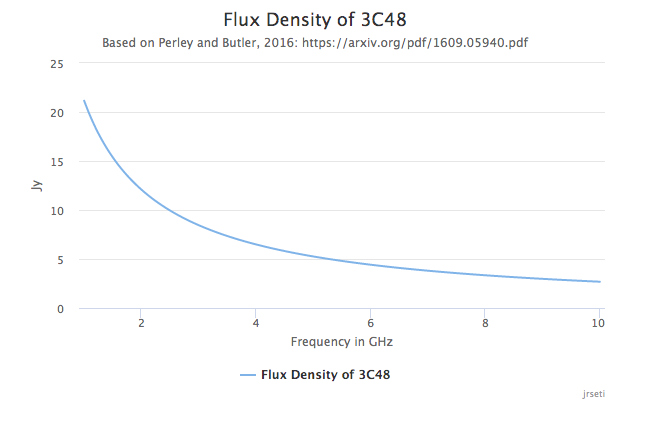
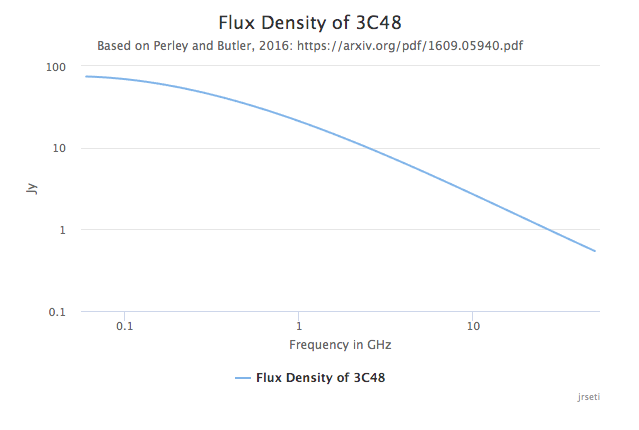
Added -flux option, and changed to log scale

diff --git a/template.html b/template.html
@@ -26,11 +26,13 @@ $(function () {
             text: 'Based on Perley and Butler, 2016: https://arxiv.org/pdf/1609.05940.pdf'
         },
         xAxis: {
+            type:'logarithmic',
             title: {
                 text: 'Frequency in GHz'
             }
         },
         yAxis: {
+            type:'logarithmic',
             title: {
                 text: 'Jy'
             },
@@ -43,7 +45,7 @@ $(function () {
         tooltip: {
             crosshairs: true,
             shared: true,
-            headerFormat: '{point.x:.1f} GHz<br>',
+            headerFormat: '{point.x:.3f} GHz<br>',
             pointFormat: '{point.y} Jy',
         },
         plotOptions: {

diff --git a/flux_densities.py b/flux_densities.py
@@ -125,6 +125,7 @@ def print_help():
         """
         print("\n%s syntax:" % sys.argv[0].replace("./", ""))
         print("\t -l|-list will list all the available sources")
+        print("\t -flux <freq in GHz> <source name> will display the flux for a given frequency")
         print("\t ")
         exit(0)
 
@@ -134,9 +135,9 @@ def create_html(coeffs):
     Create an html page for displaying the data in a graph.
     """
     data = []
-    for f in frange(1,10,0.1):
-        d = [float("%.1f"%f), float("%.4f"%(get_jy(source, float(f))))]
-        print(d)
+    #for f in frange(1,10,0.1):
+    for f in frange(0.06,50,0.005):
+        d = [float("%.4f"%f), float("%.7f"%(get_jy(source, float(f))))]
         data.append(d)
 
     f_out = open("index.html", "w")
@@ -161,18 +162,25 @@ if cmd == "-l" or cmd == "-list":
     # List the sources then exit
     print_sources()
     sys.exit(0)
+if cmd == "-flux":
+    freq = float(sys.argv[2])
+    source = sys.argv[3]
+    for s in sys.argv[4:]:
+        source += " " + s
+    jy = get_jy(source, float(freq))
+    print("%s: %0.3f Jy @ %0.3f GHz" % (source, jy, freq))
 else:
     # For the source calculate the fluxes and create a graph
     source = sys.argv[1]
     for s in sys.argv[2:]:
         source += " " + s
-    print(source)
     coeffs = get_source_coeffs(source)
     if coeffs == None:
         print("Source name not recognized\n")
         sys.exit(1)
-    for f in frange(1,10,0.5):
-        print ("%0.1f, Jy=%.3f" % (f, get_jy(source, float(f))))
+    #for f in frange(1,10,0.5):
+    #for f in frange(0.05,10,0.05):
+    #    print ("%0.1f, Jy=%.3f" % (f, get_jy(source, float(f))))
 
     # Create an HTML file to display the results
     create_html(coeffs)

diff --git a/README.md b/README.md
@@ -48,14 +48,17 @@ The following sources can be specified:
 
 ## Example:
 
-./flux_densities.py Cassiopeia A
+### flux_densities.py -flux 2.0 3c48
+3c48: 12.077 Jy @ 2.000 GHz
+
+### flux_densities.py Cassiopeia A
 
 This interactive graph should pop up in your browser:
 
 ![""](images/casa_flux.png "Cassiopeia A Flux Density")
 
   
-./flux_densities.py 3c48 produces:
+### flux_densities.py 3c48
 
 
 ![""](images/3c48_flux.png "3C48 Flux Density")
